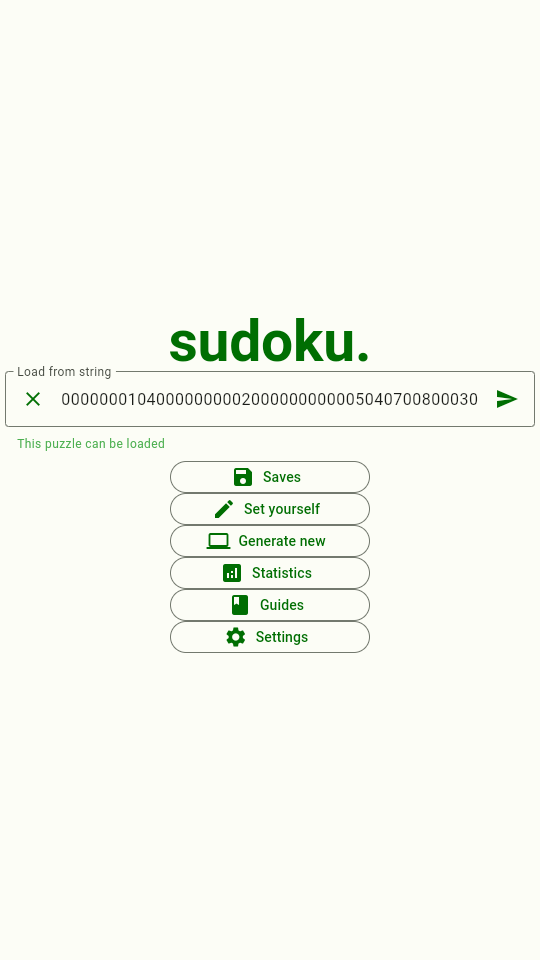
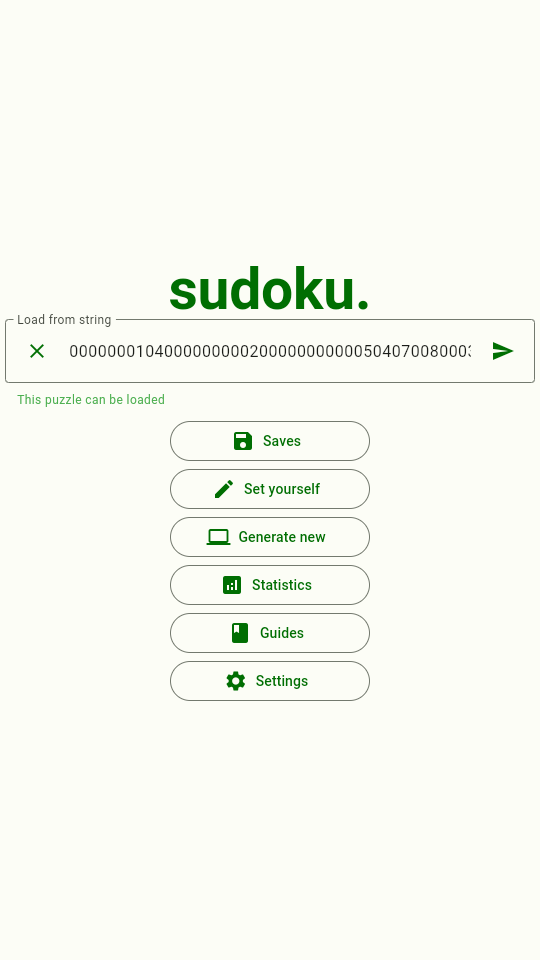
screenshots look like an Android app now 😎

diff --git a/integration_test/screenshots_test.dart b/integration_test/screenshots_test.dart
@@ -1,3 +1,4 @@
+import 'package:flutter/foundation.dart';
 import 'package:flutter/material.dart';
 import 'package:flutter_test/flutter_test.dart';
 import 'package:sudoku/main.dart';
@@ -8,6 +9,7 @@ void makeScreenshot(
     Widget w, String testName, String fileName, Function(WidgetTester) later) {
   testWidgets(testName, (WidgetTester tester) async {
     tester.view.physicalSize = const Size(1080 / 2, 1920 / 2);
+	debugDefaultTargetPlatformOverride = TargetPlatform.android;
 
     await tester.pumpWidget(w);
 
@@ -21,6 +23,7 @@ void makeScreenshot(
       find.byType(SudokuApp),
       matchesGoldenFile('screenshots/$fileName.png'),
     );
+	debugDefaultTargetPlatformOverride = null;
   });
 }
 
